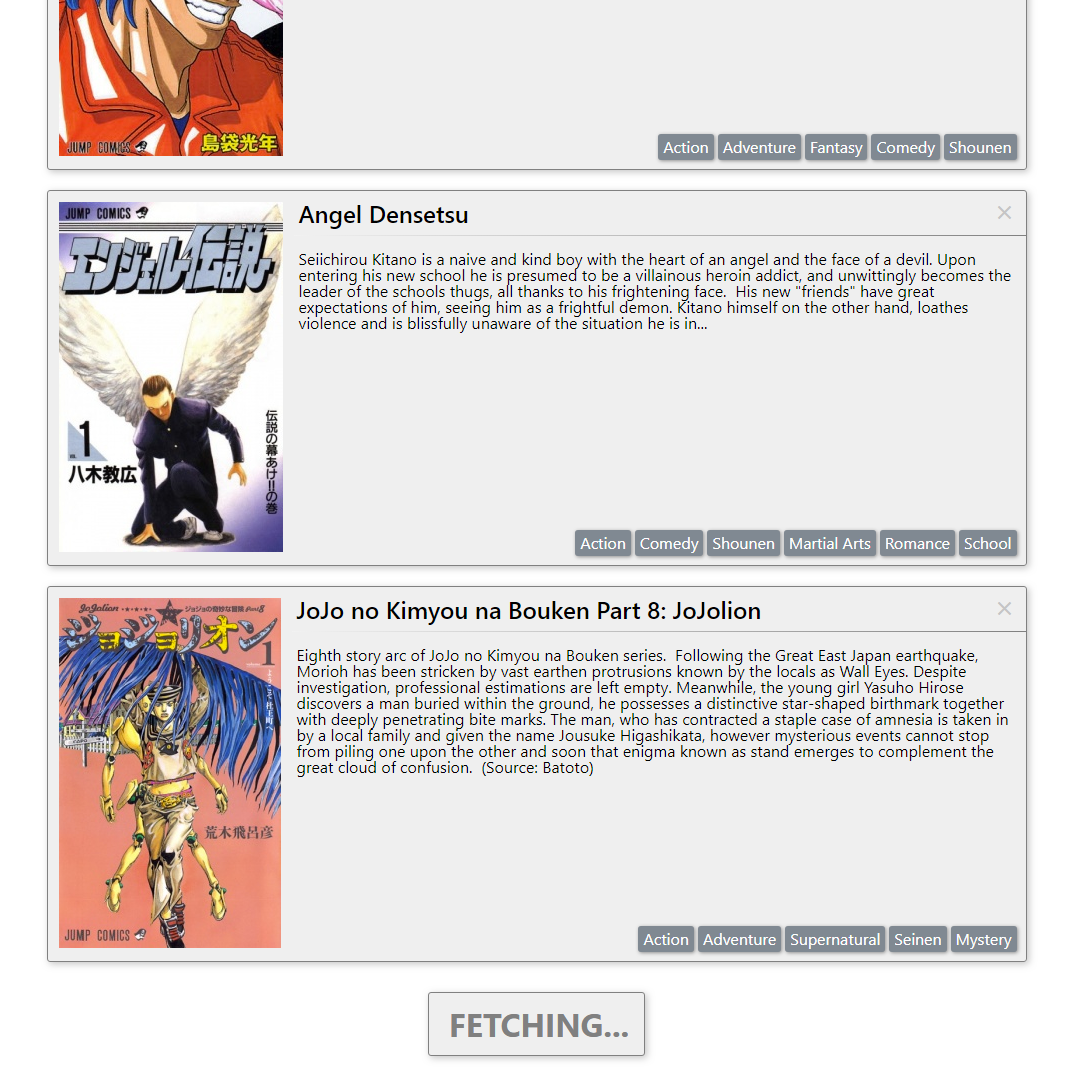
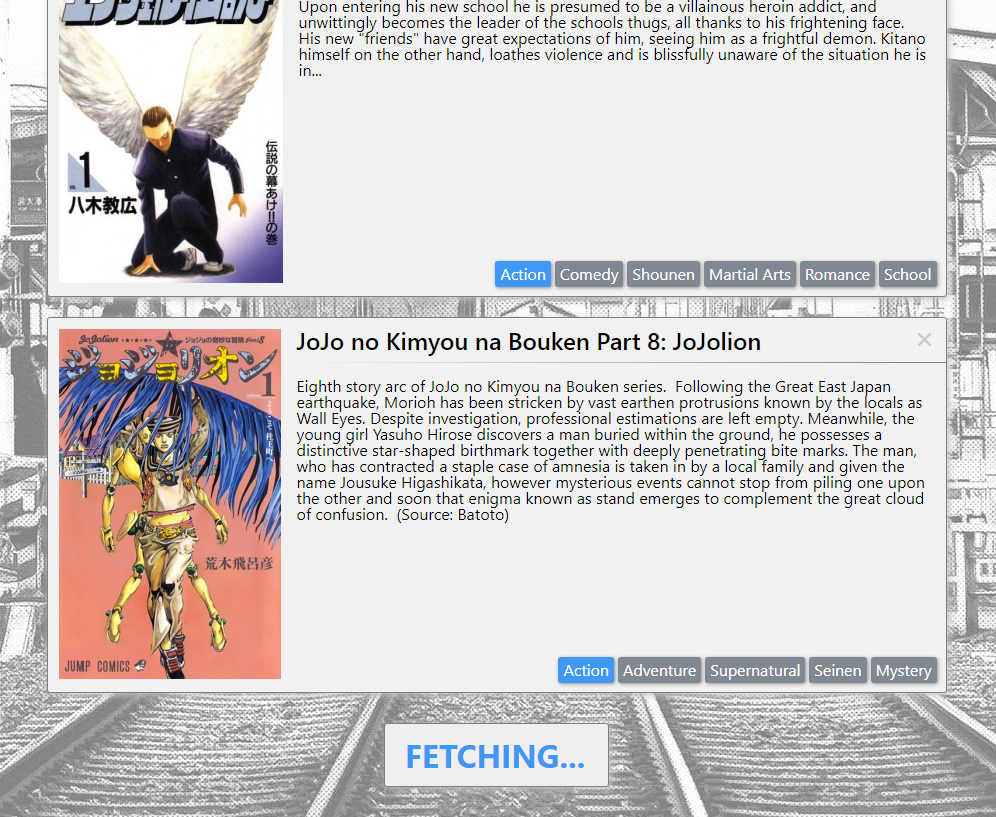
readme, screenshots

diff --git a/src/components/Cards.js b/src/components/Cards.js
@@ -11,7 +11,7 @@ getCards(genre, page){
        if(res.error) throw Error(res.error)
        let page = this.state.page + 1
        let data = this.state.data
-       this.setState({data: [...data, ...res.manga], loading: false, page, totalpages: Math.ceil(res.item_count/100)})
+       this.setState({data: [...data, ...res.manga], loading: true, page, totalpages: Math.ceil(res.item_count/100)})
     })
     .catch(err=>{
         this.setState({data: null, genre: null, error: err, loading: false})

diff --git a/README.md b/README.md
@@ -3,5 +3,13 @@
 Fetching data from [jikan.moe](https://jikan.docs.apiary.io/) REST API.  
 Design made by me from scratch.
 
-# Screenshot
+# Setup
+Setup: ```npm install```
+
+Development: ```npm run start```
+
+Production: ```npm run build```
+
+# Screenshots
 ![Screenshot](/screenshots/screenshot.png?raw=true)
+![Screenshot](/screenshots/screenshot2.png?raw=true)
